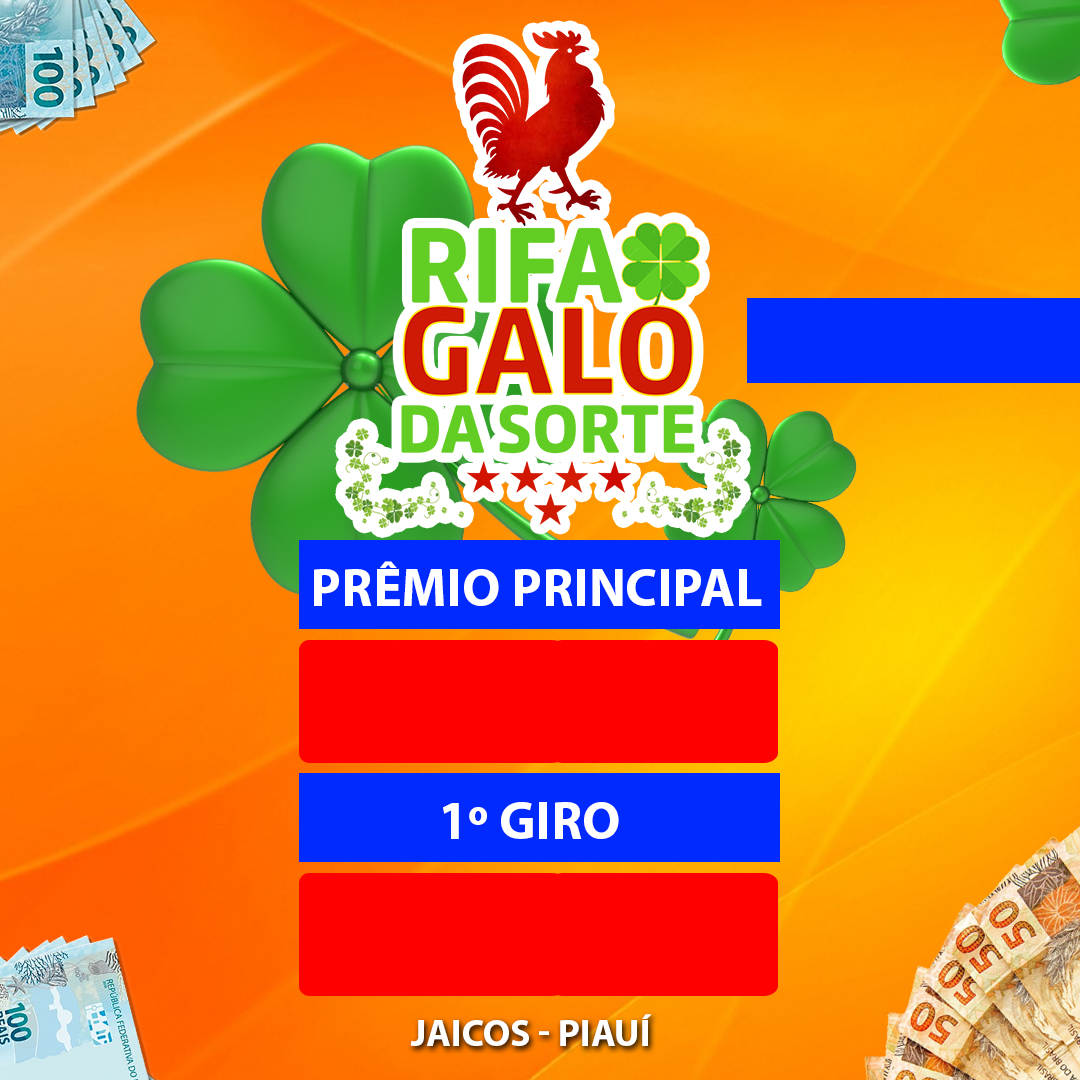
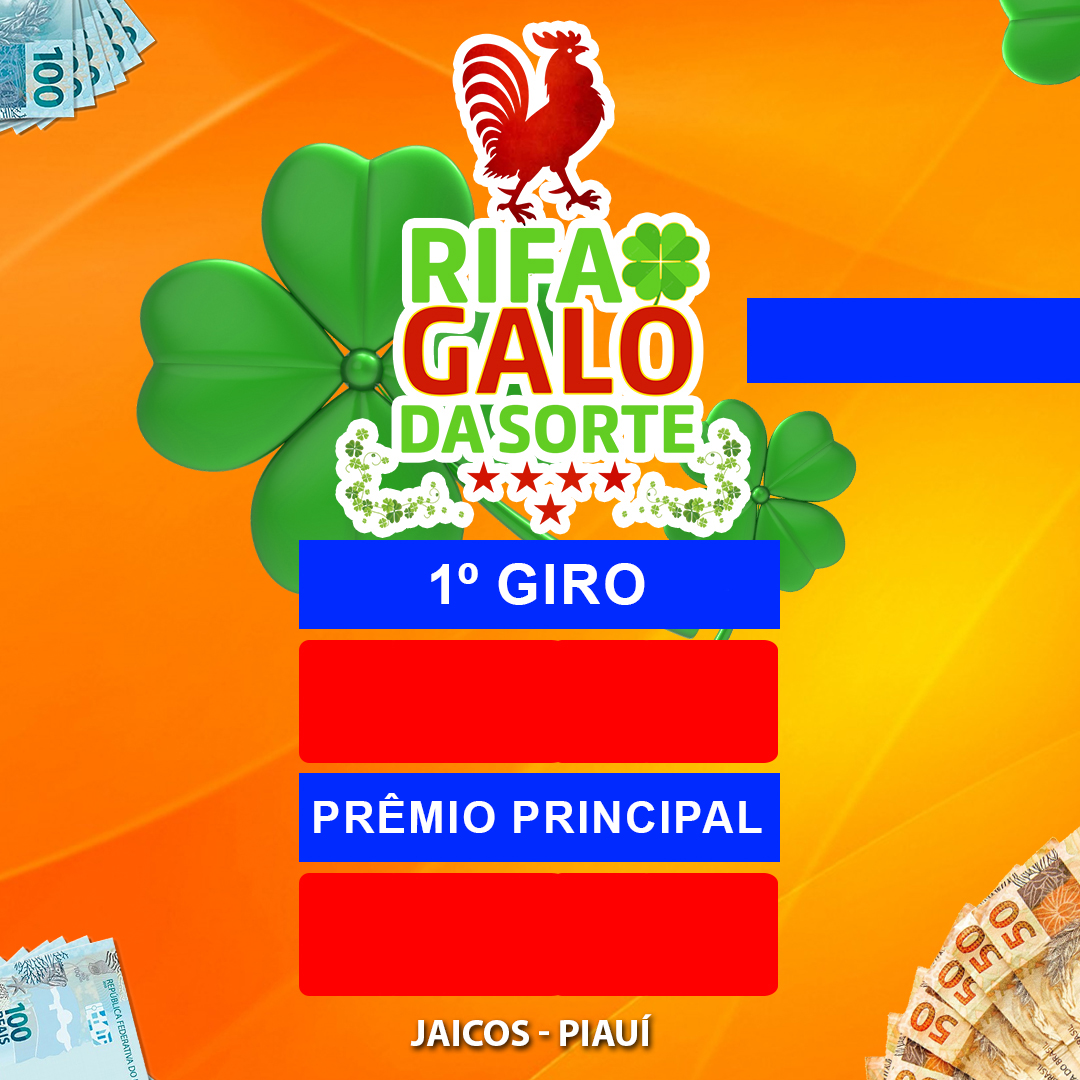
Ajustes posição dos numeros

Changed region(s): [[0.275, 0.5194, 0.7028, 0.5806], [0.275, 0.7333, 0.7028, 0.7944]]

diff --git a/cidades/jaicos/especial5numeros2giros.html b/cidades/jaicos/especial5numeros2giros.html
@@ -68,13 +68,13 @@
           name="n1"
           id="n1"
           type="text"
-          placeholder="Premio principal"
+          placeholder="Primeiro Giro"
         />
         <input
           name="n2"
           id="n2"
           type="text"
-          placeholder="Primeiro Giro"
+          placeholder="Prêmio Principal"
         />
         <div>
           <button id="btnSubmit" class="btn btnSave">Salvar</button>
